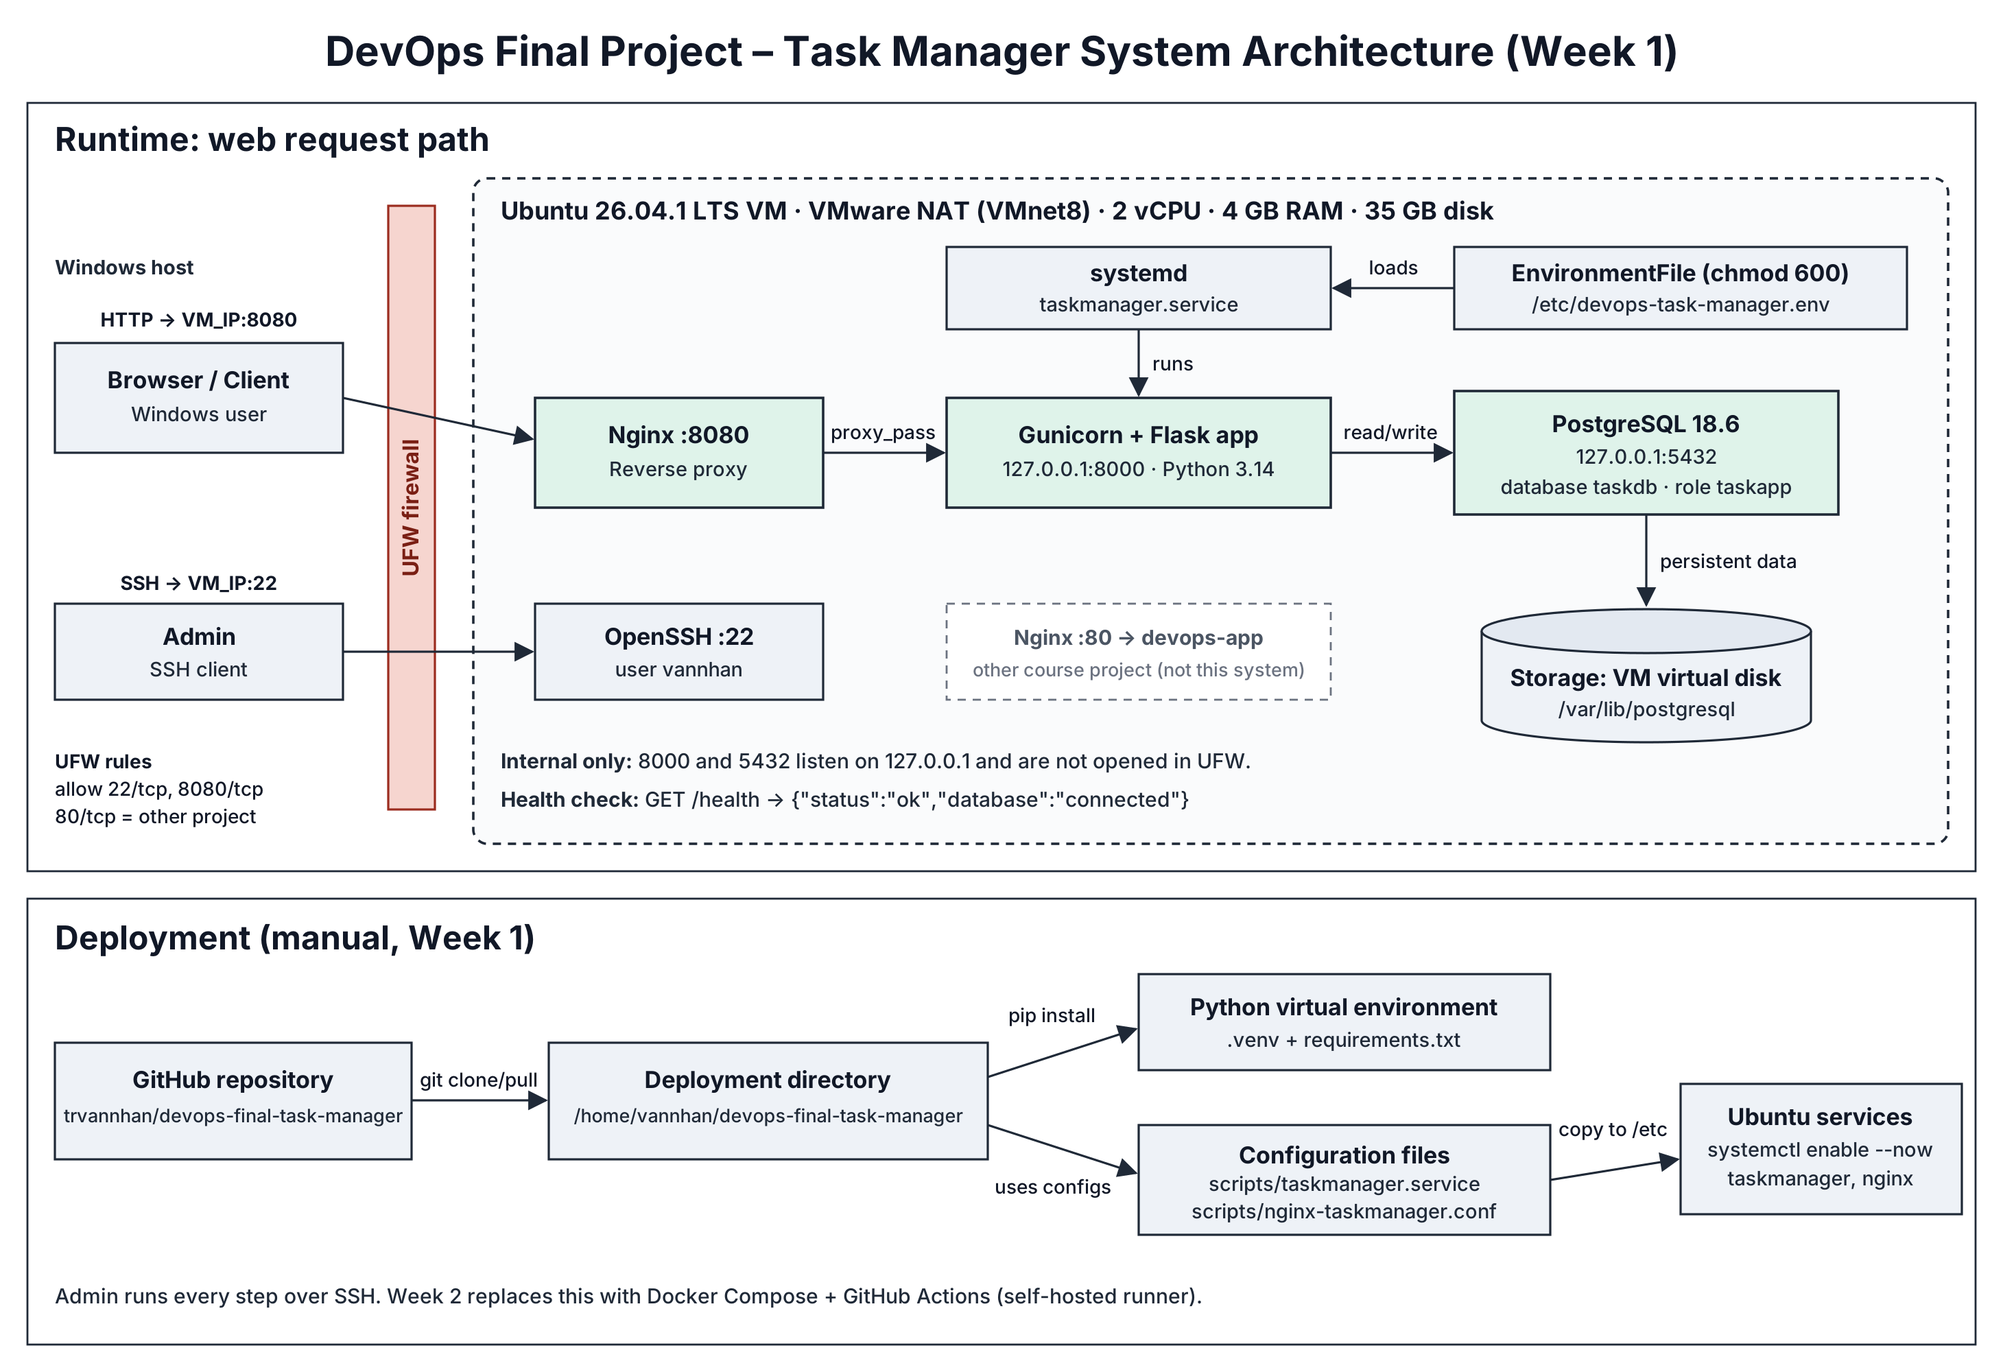
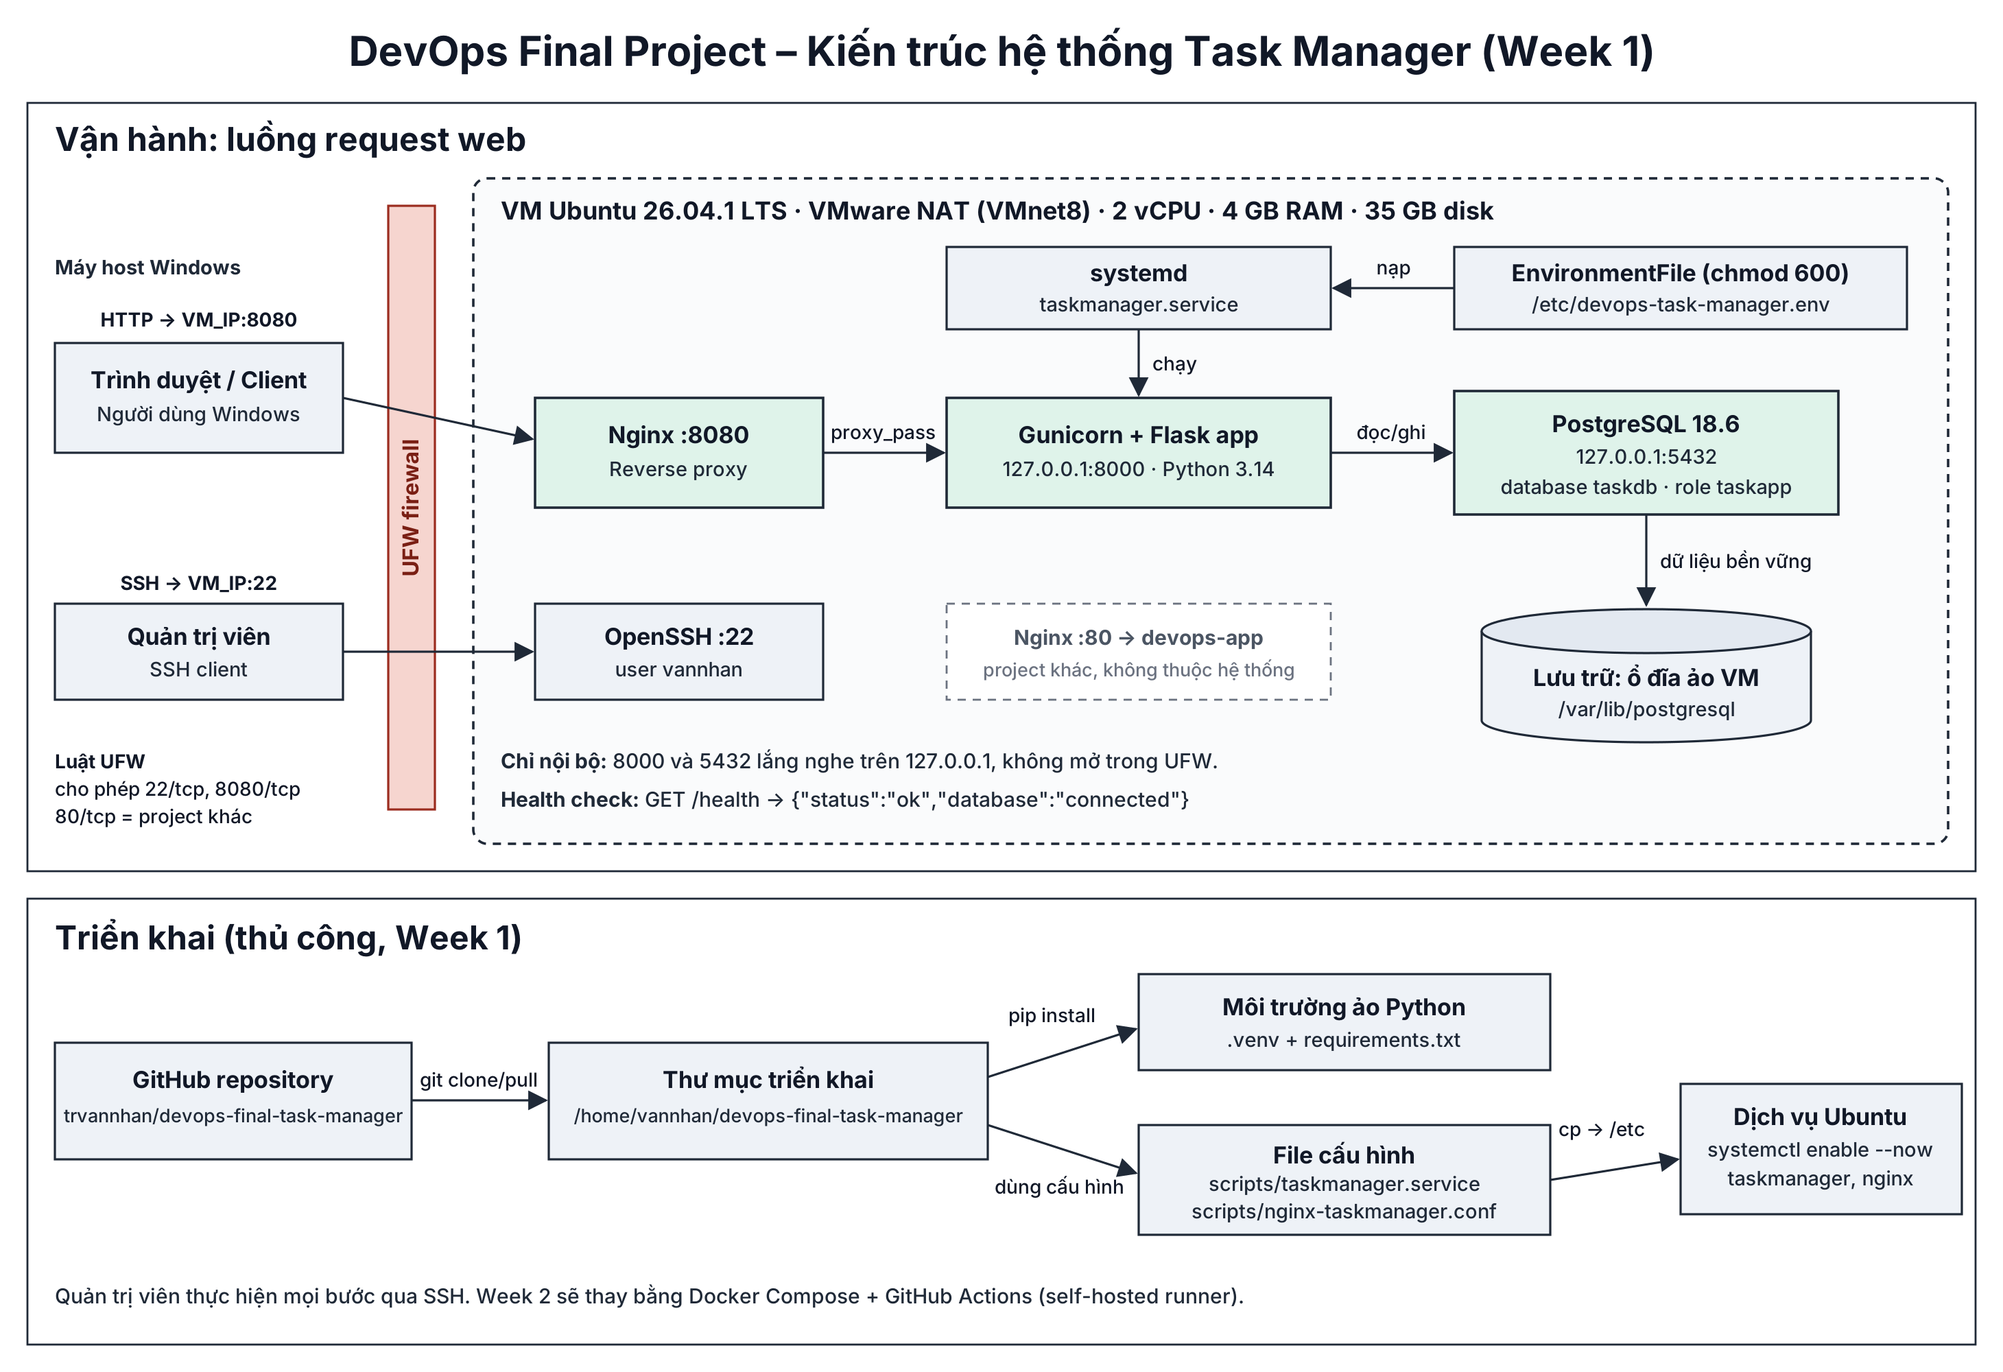
Week 1: Vietnamese README, architecture docs, evidence notes and diagram

diff --git a/README.md b/README.md
@@ -1,58 +1,58 @@
 # DevOps Task Manager — Final Project 2026 (Week 1)
 
-Flask web + JSON API + PostgreSQL database, deployed manually on an Ubuntu VM behind Nginx.
-**Week 1: manual deployment. Docker and CI/CD will be added in Week 2.**
+Ứng dụng web Flask + JSON API + cơ sở dữ liệu PostgreSQL, triển khai thủ công trên máy ảo Ubuntu, phía sau reverse proxy Nginx.
+**Week 1: triển khai thủ công. Docker và CI/CD sẽ được bổ sung ở Week 2.**
 
-## Source and scope
-- Source: application code was written with the help of an AI assistant, then reviewed, tested and deployed by the team. No third-party project template was copied.
-- Team's own work: application code, deployment architecture, Ubuntu/Nginx/systemd/UFW configuration, documentation.
+## Nguồn code và phạm vi
+- Nguồn: mã nguồn ứng dụng được viết với sự hỗ trợ của trợ lý AI, sau đó nhóm review, kiểm thử và triển khai. Không sao chép template từ dự án bên thứ ba.
+- Phần nhóm tự thực hiện: mã nguồn ứng dụng, thiết kế kiến trúc triển khai, cấu hình Ubuntu/Nginx/systemd/UFW, tài liệu.
 
-## Features
-- View all tasks, add a task, mark completed/reopen, delete.
-- `GET /health`, `GET /api/tasks`, `POST /api/tasks`, `PATCH /api/tasks/<id>`, `DELETE /api/tasks/<id>`.
-- Tasks are stored in PostgreSQL (not browser local storage), so they survive page reloads and restarts.
+## Chức năng
+- Xem danh sách công việc, thêm công việc, đánh dấu hoàn thành/làm lại, xóa.
+- API: `GET /health`, `GET /api/tasks`, `POST /api/tasks`, `PATCH /api/tasks/<id>`, `DELETE /api/tasks/<id>`.
+- Dữ liệu lưu trong PostgreSQL (không lưu trên trình duyệt), nên vẫn còn sau khi tải lại trang hoặc khởi động lại máy.
 
-## Architecture
-Browser -> Nginx on the VM (`:8080`) -> Gunicorn/Flask (`127.0.0.1:8000`) -> PostgreSQL (`127.0.0.1:5432`) -> VM disk.
-See [`docs/architecture.md`](docs/architecture.md) and [`docs/architecture.png`](docs/architecture.png).
+## Kiến trúc
+Trình duyệt -> Nginx trên VM (`:8080`) -> Gunicorn/Flask (`127.0.0.1:8000`) -> PostgreSQL (`127.0.0.1:5432`) -> ổ đĩa VM.
+Xem chi tiết tại [`docs/architecture.md`](docs/architecture.md) và [`docs/architecture.png`](docs/architecture.png).
 
-![Architecture](docs/architecture.png)
+![Sơ đồ kiến trúc](docs/architecture.png)
 
-> Port 80 on the same VM belongs to another course project (`devops-app`). Task Manager uses **8080** so both run side by side; nothing in this guide touches the port-80 site.
+> Cổng 80 trên cùng VM thuộc về một project khác của môn học (`devops-app`). Task Manager dùng cổng **8080** để hai project chạy song song; hướng dẫn này không thay đổi site ở cổng 80.
 
-## Server environment
-| Item | Value |
-|------|-------|
-| Hypervisor | VMware Workstation, NAT network (VMnet8); the Windows host reaches the VM directly |
-| OS | Ubuntu 26.04.1 LTS |
-| CPU / RAM / Disk | 2 vCPU / 4 GB RAM (3.3 GiB usable) / 35 GB disk (`/dev/sda2`) |
-| PostgreSQL | 18.6 (Ubuntu package `18.6-0ubuntu0.26.04.1`) |
+## Môi trường máy chủ
+| Mục | Giá trị |
+|-----|---------|
+| Ảo hóa | VMware Workstation, mạng NAT (VMnet8); máy Windows (host) truy cập trực tiếp vào VM |
+| Hệ điều hành | Ubuntu 26.04.1 LTS |
+| CPU / RAM / Disk | 2 vCPU / 4 GB RAM (dùng được 3.3 GiB) / 35 GB (`/dev/sda2`) |
+| PostgreSQL | 18.6 (gói Ubuntu `18.6-0ubuntu0.26.04.1`) |
 | Python | 3.14.4 |
-| Admin user | `vannhan` (SSH) |
+| User quản trị | `vannhan` (SSH) |
 
-The VM's IP address is not recorded in this repository; use `hostname -I` on the VM.
+Địa chỉ IP của VM không được ghi trong repository; dùng lệnh `hostname -I` trên VM để xem.
 
-## Manual installation (Ubuntu 26.04)
-Take a VM snapshot first.
+## Hướng dẫn cài đặt thủ công (Ubuntu 26.04)
+Nên tạo snapshot cho VM trước khi bắt đầu.
 
 ```bash
 sudo apt update
-sudo apt install -y git python3 python3-venv python3-pip postgresql nginx curl ufw
-sudo systemctl enable --now postgresql nginx
+sudo apt install -y git python3 python3-venv python3-pip postgresql nginx curl ufw openssh-server
+sudo systemctl enable --now postgresql nginx ssh
 ```
 
-### 1. PostgreSQL user and database
+### 1. Tạo user và database PostgreSQL
 ```bash
 sudo -u postgres psql
 ```
-Inside `psql` (use your own long alphanumeric password, never commit it):
+Trong `psql` (dùng mật khẩu riêng, dài, chỉ gồm chữ và số; không commit mật khẩu lên Git):
 ```sql
 CREATE USER taskapp WITH PASSWORD 'CHANGE_ME_LONG_RANDOM_PASSWORD';
 CREATE DATABASE taskdb OWNER taskapp;
 \q
 ```
 
-### 2. Get the code and install dependencies
+### 2. Lấy mã nguồn và cài thư viện
 ```bash
 cd ~
 git clone https://github.com/trvannhan/devops-final-task-manager.git
@@ -63,19 +63,19 @@ sudo cp .env.example /etc/devops-task-manager.env
 sudo chmod 600 /etc/devops-task-manager.env
 sudo nano /etc/devops-task-manager.env
 ```
-In the environment file set
+Trong file môi trường, đặt
 `DATABASE_URL=postgresql://taskapp:YOUR_OWN_PASSWORD@127.0.0.1:5432/taskdb`
-with the same password as the PostgreSQL role. The file lives outside the repository and is readable by root only.
+với mật khẩu giống mật khẩu của role PostgreSQL ở bước 1. File này nằm ngoài repository và chỉ root đọc được.
 
-### 3. Create the table
+### 3. Tạo bảng
 ```bash
 cd ~/devops-final-task-manager
 sudo bash -c 'set -a; . /etc/devops-task-manager.env; set +a; psql "$DATABASE_URL" -v ON_ERROR_STOP=1 -f schema.sql'
 ```
-Expected output: `CREATE TABLE`. The table is owned by `taskapp`. Do not show `DATABASE_URL` in demo videos.
+Kết quả mong đợi: `CREATE TABLE`. Bảng thuộc sở hữu của `taskapp`. Không để lộ `DATABASE_URL` trong video demo.
 
-### 4. systemd service, Nginx and firewall
-Check the paths in `scripts/taskmanager.service` match your user, then:
+### 4. Service systemd, Nginx và firewall
+Kiểm tra đường dẫn trong `scripts/taskmanager.service` khớp với user của bạn, sau đó:
 ```bash
 sudo cp scripts/taskmanager.service /etc/systemd/system/taskmanager.service
 sudo systemctl daemon-reload
@@ -86,17 +86,17 @@ sudo ln -sfn /etc/nginx/sites-available/taskmanager /etc/nginx/sites-enabled/tas
 sudo nginx -t
 sudo systemctl reload nginx
 ```
-Firewall (confirm SSH works before enabling UFW):
+Firewall (kiểm tra SSH hoạt động trước khi bật UFW):
 ```bash
 sudo ufw allow OpenSSH
 sudo ufw allow 8080/tcp     # Task Manager
-sudo ufw allow 80/tcp       # existing devops-app project (keep if still used)
+sudo ufw allow 80/tcp       # project devops-app có sẵn (giữ lại nếu vẫn dùng)
 sudo ufw enable
 sudo ufw status verbose
 ```
-Never open 8000 (Gunicorn) or 5432 (PostgreSQL); both listen on 127.0.0.1 only.
+Tuyệt đối không mở cổng 8000 (Gunicorn) và 5432 (PostgreSQL); cả hai chỉ lắng nghe trên 127.0.0.1.
 
-### 5. Verification
+### 5. Kiểm tra
 ```bash
 lsb_release -a
 hostname -I
@@ -106,32 +106,34 @@ sudo ss -lntp | grep -E ':22 |:8080 |:8000 |:5432 '
 curl -i http://127.0.0.1:8080/health
 curl -i -X POST http://127.0.0.1:8080/api/tasks -H 'Content-Type: application/json' \
      -d '{"title":"Demo Week 1","description":"Test read/write"}'
-curl -s http://127.0.0.1:8080/api/tasks
-# replace 1 with the id returned by the POST above
-curl -i -X PATCH http://127.0.0.1:8080/api/tasks/1 -H 'Content-Type: application/json' -d '{"completed":true}'
+curl -s http://127.0.0.1:8080/api/tasks; echo
+# thay số 1 bằng id trả về từ lệnh POST ở trên
+curl -i -X PATCH http://127.0.0.1:8080/api/tasks/1 -H 'Content-Type: application/json' -d '{"completed":true}'; echo
 sudo -u postgres psql -d taskdb -c 'SELECT id,title,completed FROM tasks ORDER BY id DESC LIMIT 10;'
 
 .venv/bin/python -m pytest -q
 ```
-Expected `/health`: `{"database":"connected","status":"ok"}`.
+Kết quả mong đợi của `/health`: `{"database":"connected","status":"ok"}`.
 
-From the Windows browser open `http://<VM_IP>:8080/`, add a task, reload the page, mark it completed, and match the result with the SQL query above.
+Trên trình duyệt Windows, mở `http://<VM_IP>:8080/` (thay `<VM_IP>` bằng IP thật của VM), thêm một công việc, tải lại trang, đánh dấu hoàn thành và đối chiếu với kết quả câu lệnh SQL ở trên.
 
-## Week 1 deliverables
-- [x] Architecture: `docs/architecture.md`, `docs/architecture.png`
-- [x] Repository, source code, this README
-- [x] Team task allocation (below)
-- [x] Server evidence in `evidence/`: OS release, SSH login, `ufw status`, listening ports, service status
-- [x] App + DB evidence: POST/GET/PATCH responses and PostgreSQL SELECT (no passwords)
-- [x] Screenshots of the site opened from Windows on port 8080 (`evidence/07a`, `07b`)
-- [ ] Backup demo video
+## Hồ sơ nộp Week 1
+- [x] Kiến trúc: `docs/architecture.md`, `docs/architecture.png`
+- [x] Repository, mã nguồn, README này
+- [x] Phân công nhiệm vụ (bên dưới)
+- [x] Minh chứng server trong `evidence/`: phiên bản OS, đăng nhập SSH, `ufw status`, các cổng đang lắng nghe, trạng thái service
+- [x] Minh chứng app + DB: kết quả POST/GET/PATCH và câu SELECT trong PostgreSQL (không lộ mật khẩu)
+- [x] Ảnh truy cập web từ Windows qua cổng 8080 (`evidence/07a`, `07b`)
+- [ ] Video demo dự phòng
 
-## Team task allocation
-| Member | Student ID | Responsibility | Evidence |
-|--------|-----------|----------------|----------|
-| Trần Văn Nhân (lead) | 23090036 | Ubuntu VM and SSH, Flask app/API, GitHub repository | VM screenshots, API evidence, commits |
-| Trần Văn Lực | 23090019 | UFW firewall, Nginx + systemd deployment, architecture diagram | `ufw status`, service status, `docs/` |
-| Nguyễn Vũ Hoàng Long | 23090026 | PostgreSQL database and CRUD, README, demo video | SQL evidence, README, video |
+## Phân công nhiệm vụ
+| Thành viên | MSSV | Phụ trách | Minh chứng |
+|------------|------|-----------|------------|
+| Trần Văn Nhân (nhóm trưởng) | 23090036 | Máy ảo Ubuntu và SSH, Flask app/API, GitHub repository | ảnh VM, minh chứng API, commit |
+| Trần Văn Lực | 23090019 | Firewall UFW, triển khai Nginx + systemd, sơ đồ kiến trúc | `ufw status`, trạng thái service, `docs/` |
+| Nguyễn Vũ Hoàng Long | 23090026 | Database PostgreSQL và CRUD, README, video demo | minh chứng SQL, README, video |
 
-## Next weeks
-Week 2: Dockerfile, Compose, volume, automated tests and CI/CD. Week 3: metrics, dashboard, alerts, firewall/secrets, backup/restore. Week 4: full demo, troubleshooting playbook and technical report.
+## Các tuần tiếp theo
+- Week 2: Dockerfile, Docker Compose, volume, kiểm thử tự động và CI/CD.
+- Week 3: giám sát (metrics, dashboard, cảnh báo), firewall/secrets, backup/restore.
+- Week 4: demo toàn hệ thống, troubleshooting playbook và báo cáo kỹ thuật.

diff --git a/docs/architecture.md b/docs/architecture.md
@@ -1,37 +1,46 @@
-# Week 1 Deployment Architecture
+# Kiến trúc triển khai Week 1
 
-![Task Manager architecture](architecture.png)
+![Sơ đồ kiến trúc Task Manager](architecture.png)
 
-Editable source: [`architecture.svg`](architecture.svg).
+File nguồn có thể chỉnh sửa: [`architecture.svg`](architecture.svg).
 
 ```text
-Windows browser (client)
+Trình duyệt Windows (client, máy host)
         | HTTP :8080
         v
-Ubuntu 26.04.1 VM (VMware NAT network, VMnet8)
-  Nginx :8080 (public VM interface, reverse proxy)
+VM Ubuntu 26.04.1 (VMware, mạng NAT VMnet8)
+  Nginx :8080 (cổng mở ra ngoài, reverse proxy)
         | proxy_pass
         v
   Gunicorn + Flask 127.0.0.1:8000   <- systemd taskmanager.service
-        | psycopg (DATABASE_URL)        loads /etc/devops-task-manager.env
+        | psycopg (DATABASE_URL)        nạp /etc/devops-task-manager.env
         v
   PostgreSQL 18.6 127.0.0.1:5432 (database taskdb, role taskapp)
-        | persistent DB files
+        | lưu dữ liệu bền vững
         v
-  Ubuntu virtual disk (/var/lib/postgresql)
+  Ổ đĩa ảo Ubuntu (/var/lib/postgresql)
 
-GitHub repository -> manual git clone / git pull -> /home/vannhan/devops-final-task-manager
-SSH :22 (admin only).
+GitHub repository -> git clone / git pull thủ công -> /home/vannhan/devops-final-task-manager
+SSH :22 (chỉ dành cho quản trị).
 ```
 
-## Ports
+## Luồng request
+1. Người dùng mở `http://VM_IP:8080` trên trình duyệt Windows.
+2. UFW cho phép kết nối vào cổng 8080; Nginx nhận request.
+3. Nginx chuyển tiếp (`proxy_pass`) tới Gunicorn/Flask tại `127.0.0.1:8000`.
+4. Flask đọc/ghi bảng `tasks` trong PostgreSQL tại `127.0.0.1:5432`.
+5. Kết quả JSON trả ngược lại qua Nginx về trình duyệt.
 
-| Port | Service | Listens on | Opened in UFW |
-|------|---------|-----------|---------------|
-| 22   | SSH (admin) | all interfaces | yes |
-| 8080 | Nginx -> Task Manager | all interfaces | yes |
-| 80   | Nginx -> another course project (`devops-app`), not part of this system | all interfaces | yes |
-| 8000 | Gunicorn/Flask | 127.0.0.1 only | no |
-| 5432 | PostgreSQL | 127.0.0.1 only | no |
+## Bảng cổng
+| Cổng | Dịch vụ | Lắng nghe trên | Mở trong UFW |
+|------|---------|----------------|--------------|
+| 22   | SSH (quản trị) | mọi interface | có |
+| 8080 | Nginx -> Task Manager | mọi interface | có |
+| 80   | Nginx -> project khác của môn học (`devops-app`), không thuộc hệ thống này | mọi interface | có |
+| 8000 | Gunicorn/Flask | chỉ 127.0.0.1 | không |
+| 5432 | PostgreSQL | chỉ 127.0.0.1 | không |
 
-Ports 8000 and 5432 are bound to localhost, so clients can only reach the application through Nginx on 8080.
+Cổng 8000 và 5432 chỉ gắn với localhost, nên client chỉ có thể truy cập ứng dụng thông qua Nginx ở cổng 8080.
+
+## Ghi chú về mạng NAT
+VM dùng mạng NAT của VMware (VMnet8) nên có IP riêng trong mạng ảo. Máy Windows chạy VMware truy cập trực tiếp được vào VM. Nếu muốn máy khác trong mạng LAN truy cập, cần chuyển sang chế độ Bridged hoặc cấu hình port forwarding trong Virtual Network Editor.

diff --git a/evidence/README.md b/evidence/README.md
@@ -1,16 +1,16 @@
-# Week 1 Evidence
+# Minh chứng Week 1
 
-Screenshots taken on the Ubuntu VM and the Windows client on 2026-10-27.
-Private IP addresses are masked. No passwords, tokens or `DATABASE_URL` values appear in any screenshot.
+Ảnh chụp trên máy ảo Ubuntu và máy client Windows ngày 27/10/2026.
+Địa chỉ IP riêng đã được che. Không ảnh nào chứa mật khẩu, token hoặc giá trị `DATABASE_URL`.
 
-| File | What it proves |
-|------|----------------|
-| `01-os.png` | OS and resources: Ubuntu 26.04.1 LTS, 2 vCPU, 3.3 GiB RAM, 35 GB disk |
-| `02-ssh.png` | SSH login from Windows (PowerShell) to the VM as `vannhan` |
-| `03-ufw-ports.png` | UFW active, default deny incoming, allows 22 and 8080 (80 belongs to another project). Nginx listens on `0.0.0.0:8080`; Gunicorn `127.0.0.1:8000` and PostgreSQL `127.0.0.1:5432` are localhost only |
-| `04-services.png` | `postgresql`, `nginx`, `taskmanager` are active; `taskmanager.service` is enabled and runs Gunicorn with 2 workers on 127.0.0.1:8000 |
-| `05-api.png` | `GET /health` 200 (database connected), `POST /api/tasks` 201 (task id 6), `GET /api/tasks`, `PATCH /api/tasks/6` 200 (`completed: true`) |
-| `06-sql.png` | `SELECT` in PostgreSQL shows task 6 "Demo Week 1" with `completed = t`, matching the API calls |
-| `07a-browser-add.png` | Windows browser at `VM_IP:8080`: task "Demo từ Windows" added and still present after reload |
-| `07b-browser-complete.png` | Same task marked completed from the browser; counters updated |
-| `08-tests.png` | Automated tests: `3 passed` |
+| File | Chứng minh điều gì |
+|------|--------------------|
+| `01-os.png` | Hệ điều hành và tài nguyên: Ubuntu 26.04.1 LTS, 2 vCPU, RAM 3.3 GiB khả dụng, ổ đĩa 35 GB |
+| `02-ssh.png` | Đăng nhập SSH từ Windows (PowerShell) vào VM bằng user `vannhan` |
+| `03-ufw-ports.png` | UFW đang bật, mặc định chặn kết nối vào, chỉ mở 22 và 8080 (cổng 80 thuộc project khác). Nginx lắng nghe `0.0.0.0:8080`; Gunicorn `127.0.0.1:8000` và PostgreSQL `127.0.0.1:5432` chỉ chạy nội bộ |
+| `04-services.png` | `postgresql`, `nginx`, `taskmanager` đều active; `taskmanager.service` được enable và chạy Gunicorn 2 worker tại 127.0.0.1:8000 |
+| `05-api.png` | `GET /health` trả 200 (database connected), `POST /api/tasks` trả 201 (tạo task id 6), `GET /api/tasks`, `PATCH /api/tasks/6` trả 200 (`completed: true`) |
+| `06-sql.png` | Câu `SELECT` trong PostgreSQL có task 6 "Demo Week 1" với `completed = t`, khớp với các lệnh API |
+| `07a-browser-add.png` | Trình duyệt Windows truy cập `VM_IP:8080`: thêm task "Demo từ Windows", task vẫn còn sau khi tải lại trang |
+| `07b-browser-complete.png` | Đánh dấu hoàn thành task đó trên trình duyệt; các ô thống kê cập nhật theo |
+| `08-tests.png` | Kiểm thử tự động: `3 passed` |
